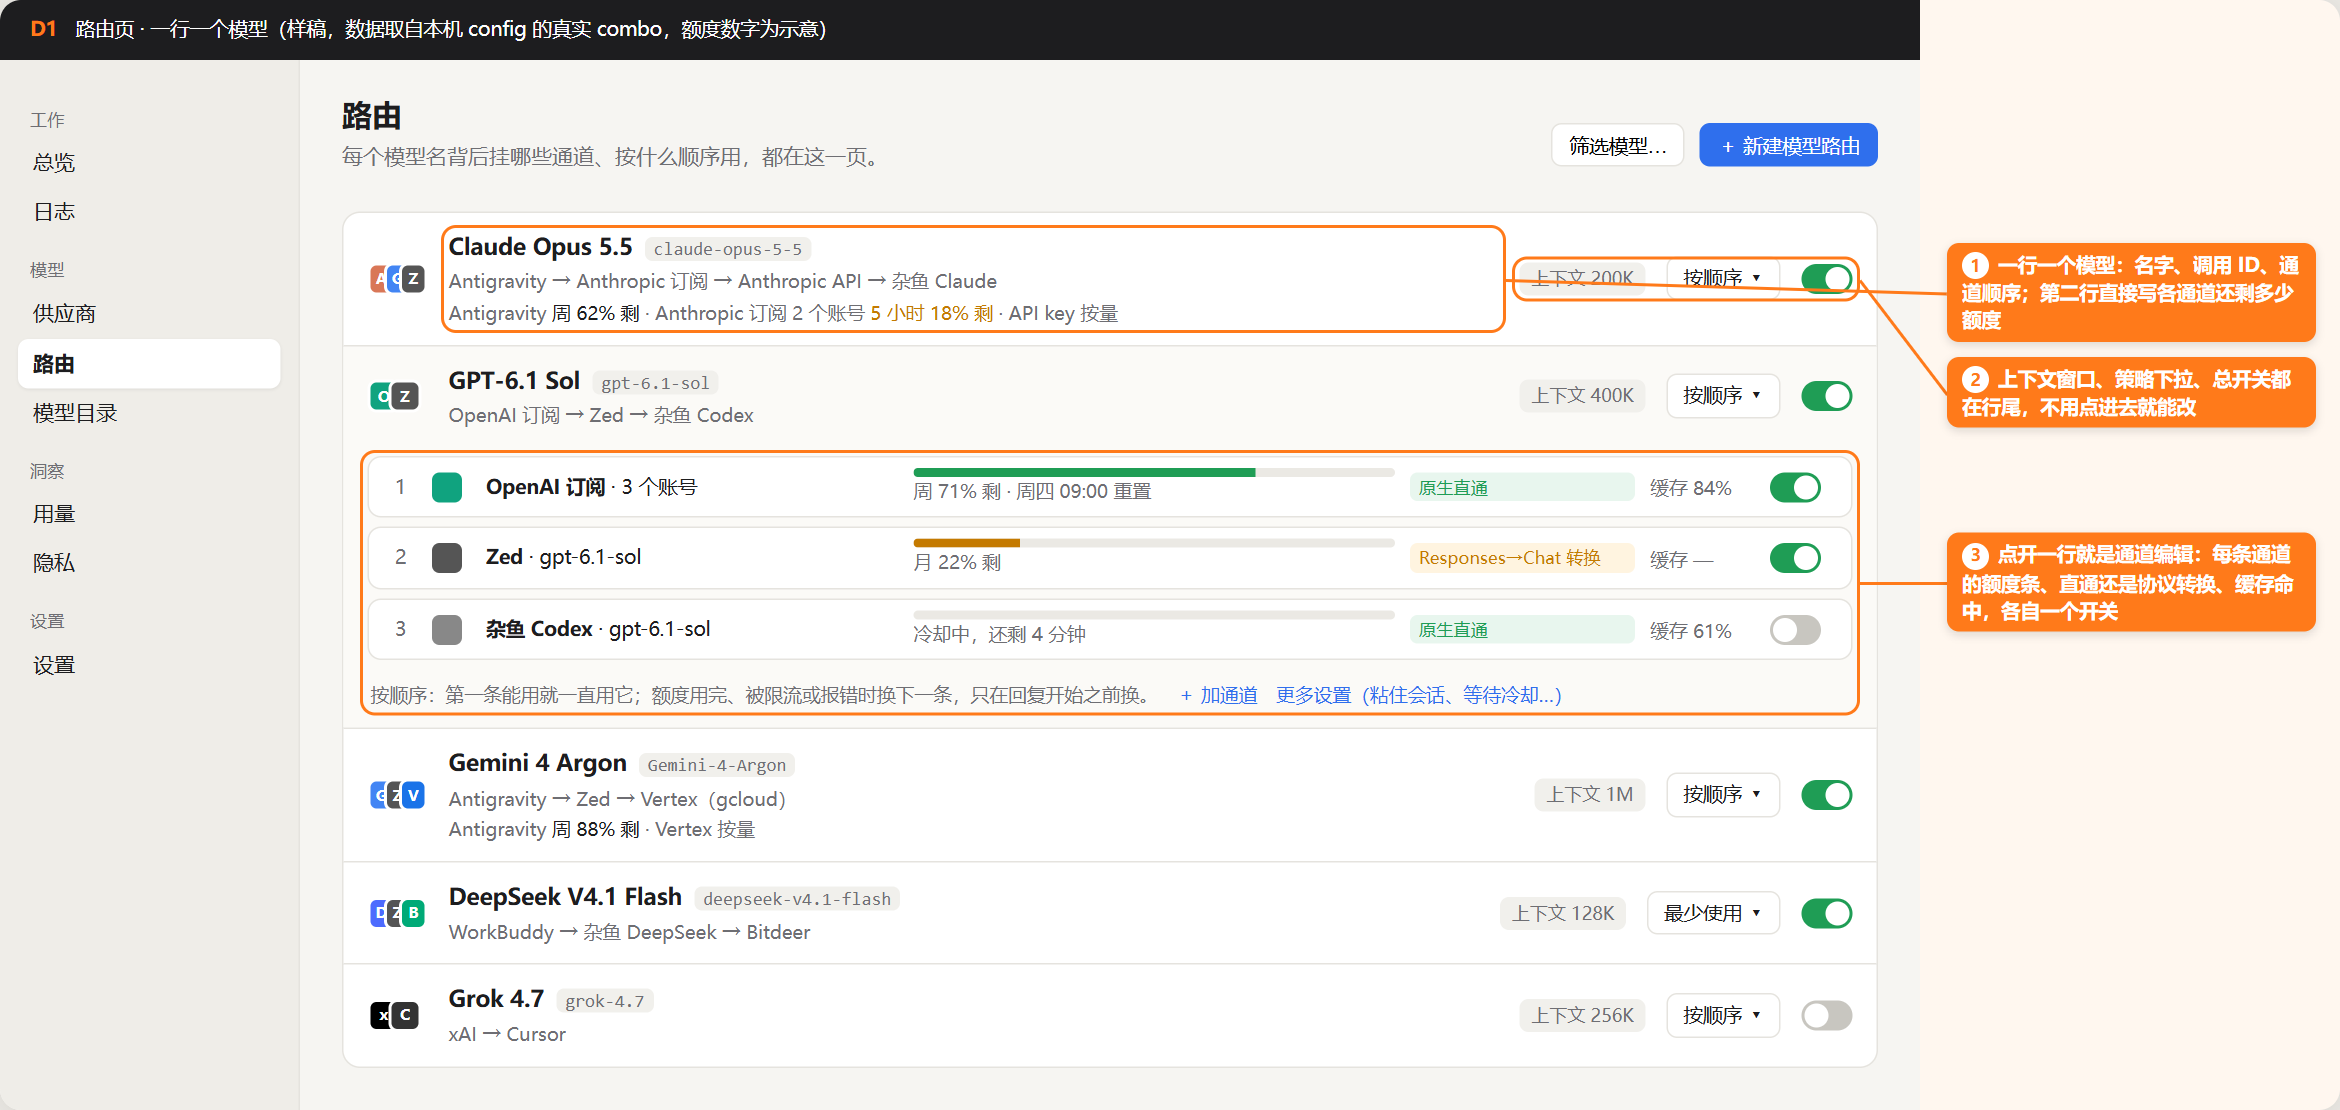
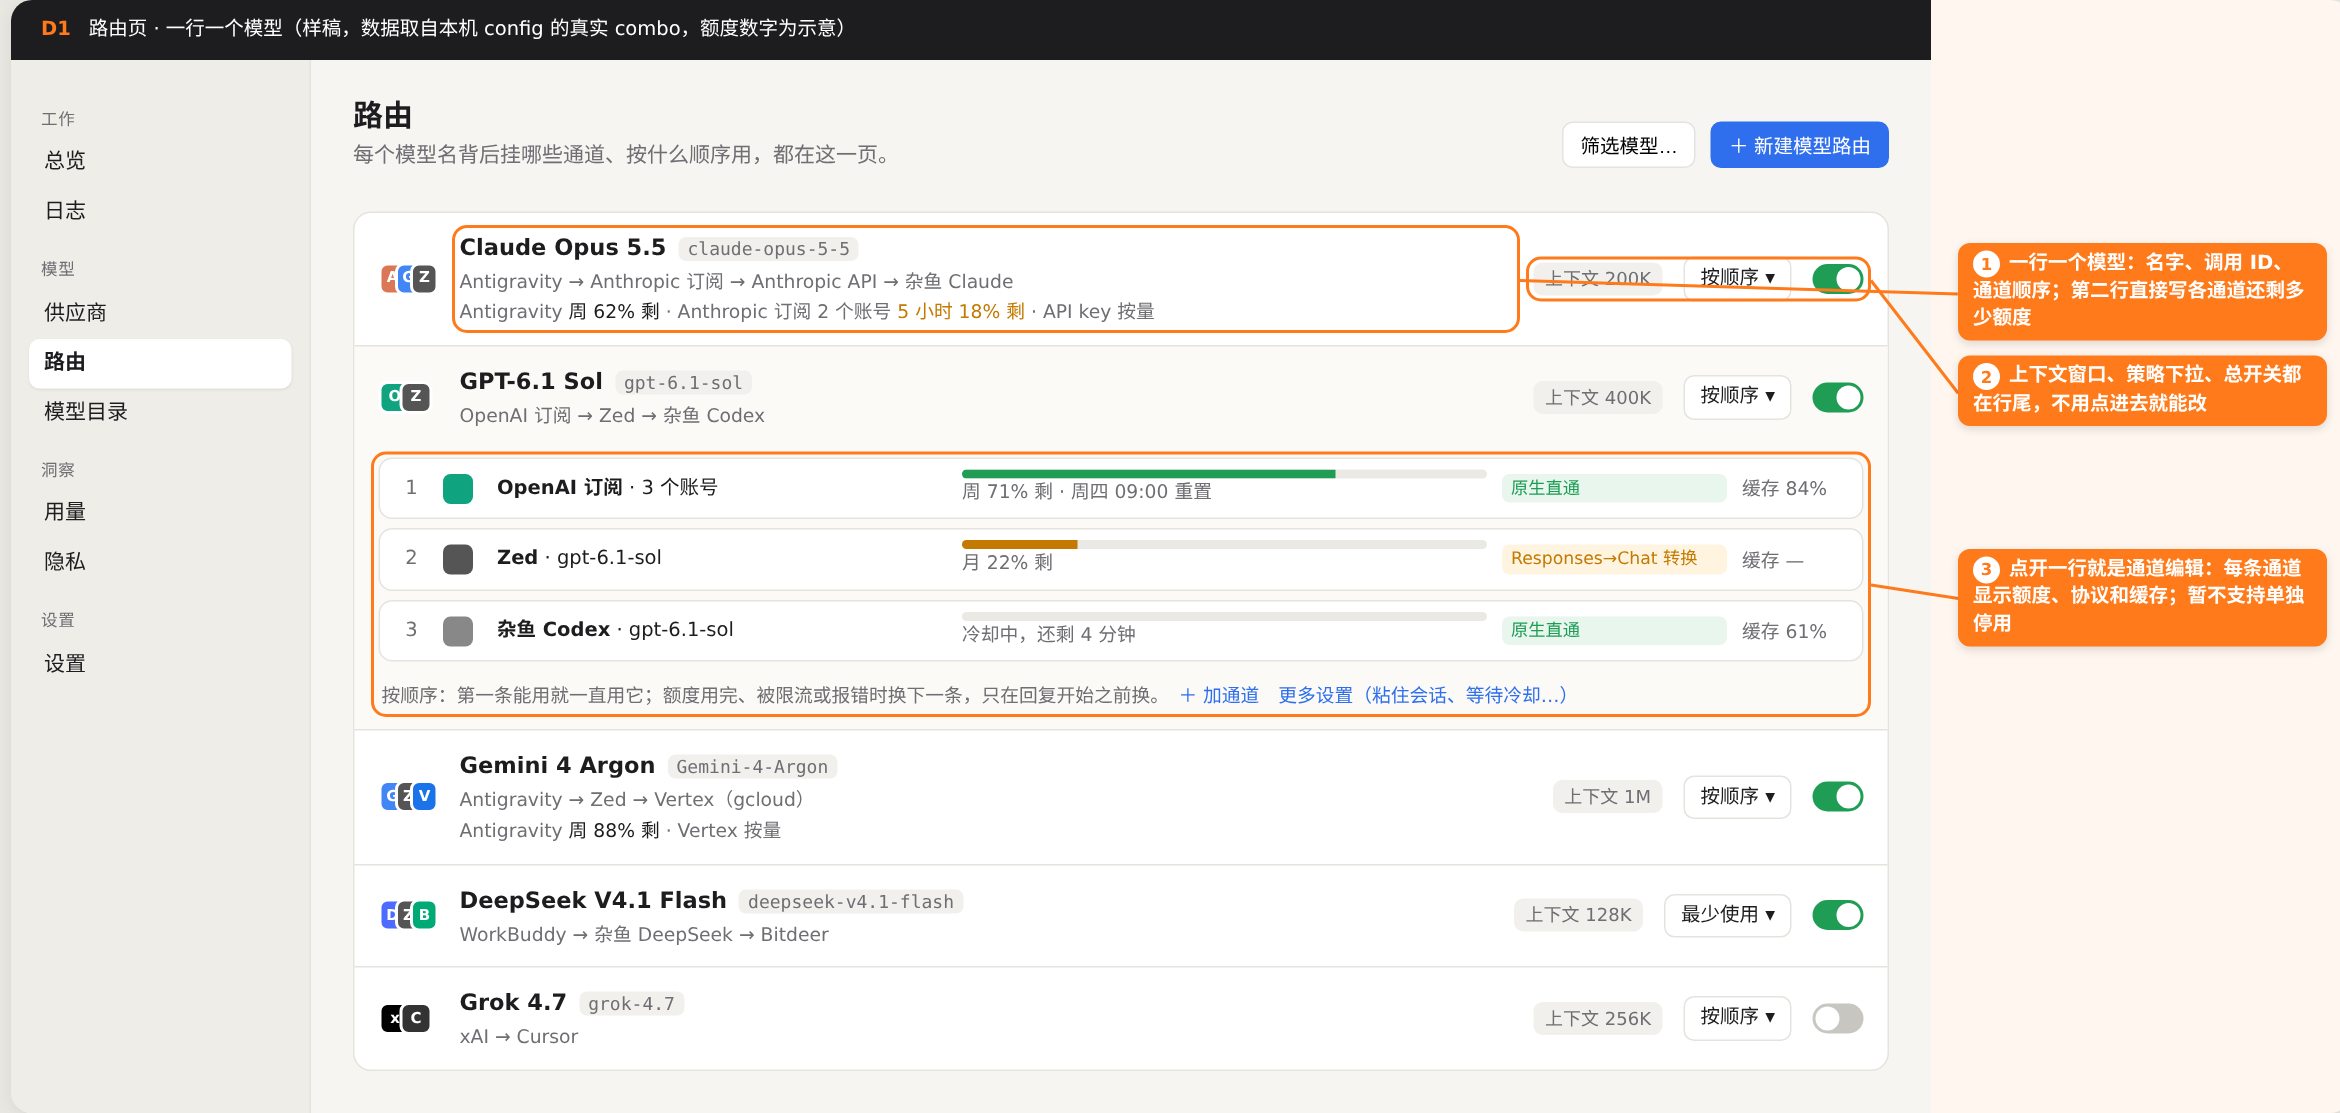
docs(cockpit): align mockups with routing and privacy behavior

diff --git a/devlog/_plan/261104_cockpit/mockups.html b/devlog/_plan/261104_cockpit/mockups.html
@@ -19,7 +19,7 @@ main{padding:22px 28px 28px}h2{margin:0 0 2px;font-size:20px}.lead{color:var(--s
 .sel{border:1px solid var(--line);border-radius:7px;padding:4px 10px;font-size:13px;background:#fff;white-space:nowrap}
 .sw{width:34px;height:20px;border-radius:10px;background:var(--ok);position:relative}.sw:after{content:"";position:absolute;right:2px;top:2px;width:16px;height:16px;border-radius:50%;background:#fff}.sw.off{background:#c8c6c0}.sw.off:after{right:auto;left:2px}
 .open{background:#fbfaf7}.chan{grid-column:1/-1;display:grid;gap:6px;margin-top:4px}
-.ch{display:grid;grid-template-columns:22px 26px 1.2fr 1.4fr 150px 70px 44px;gap:10px;align-items:center;background:#fff;border:1px solid var(--line);border-radius:9px;padding:7px 10px;font-size:13px}
+.ch{display:grid;grid-template-columns:22px 26px 1.2fr 1.4fr 150px 70px;gap:10px;align-items:center;background:#fff;border:1px solid var(--line);border-radius:9px;padding:7px 10px;font-size:13px}
 .n{color:var(--sub);text-align:center}.bar{height:6px;border-radius:3px;background:#ebe9e4;overflow:hidden}.bar i{display:block;height:100%;background:var(--ok)}.bar.w i{background:var(--warn)}.bar.b i{background:var(--bad)}
 .tag{font-size:11.5px;border-radius:5px;padding:1px 6px;background:#eef3ff;color:var(--acc);white-space:nowrap}.tag.g{background:#e8f6ee;color:var(--ok)}.tag.y{background:#fff4e0;color:var(--warn)}.tag.r{background:#fdecec;color:var(--bad)}
 .hint{font-size:12.5px;color:var(--sub);margin:8px 0 0 2px}
@@ -55,10 +55,10 @@ table{width:100%;border-collapse:collapse;font-size:13px}td,th{padding:8px 12px;
   <div class="nm"><b>GPT-6.1 Sol</b><code>gpt-6.1-sol</code>
    <div class="mem">OpenAI 订阅 → Zed → 杂鱼 Codex</div></div>
   <span class="ctx">上下文 400K</span><span class="sel">按顺序 ▾</span><span class="sw"></span>
-  <div data-n="3" data-t="点开一行就是通道编辑：每条通道的额度条、直通还是协议转换、缓存命中，各自一个开关" data-p="b" class="chan">
-   <div class="ch"><span class="n">1</span><i style="width:20px;height:20px;border-radius:5px;background:#10a37f"></i><span><b>OpenAI 订阅</b> · 3 个账号</span><span><div class="bar"><i style="width:71%"></i></div><small class="mem">周 71% 剩 · 周四 09:00 重置</small></span><span class="tag g">原生直通</span><span class="mem">缓存 84%</span><span class="sw"></span></div>
-   <div class="ch"><span class="n">2</span><i style="width:20px;height:20px;border-radius:5px;background:#555"></i><span><b>Zed</b> · gpt-6.1-sol</span><span><div class="bar w"><i style="width:22%"></i></div><small class="mem">月 22% 剩</small></span><span class="tag y">Responses→Chat 转换</span><span class="mem">缓存 —</span><span class="sw"></span></div>
-   <div class="ch"><span class="n">3</span><i style="width:20px;height:20px;border-radius:5px;background:#888"></i><span><b>杂鱼 Codex</b> · gpt-6.1-sol</span><span><div class="bar b"><i style="width:0"></i></div><small class="mem out">冷却中，还剩 4 分钟</small></span><span class="tag g">原生直通</span><span class="mem">缓存 61%</span><span class="sw off"></span></div>
+  <div data-n="3" data-t="点开一行就是通道编辑：每条通道显示额度、协议和缓存；暂不支持单独停用" data-p="b" class="chan">
+   <div class="ch"><span class="n">1</span><i style="width:20px;height:20px;border-radius:5px;background:#10a37f"></i><span><b>OpenAI 订阅</b> · 3 个账号</span><span><div class="bar"><i style="width:71%"></i></div><small class="mem">周 71% 剩 · 周四 09:00 重置</small></span><span class="tag g">原生直通</span><span class="mem">缓存 84%</span></div>
+   <div class="ch"><span class="n">2</span><i style="width:20px;height:20px;border-radius:5px;background:#555"></i><span><b>Zed</b> · gpt-6.1-sol</span><span><div class="bar w"><i style="width:22%"></i></div><small class="mem">月 22% 剩</small></span><span class="tag y">Responses→Chat 转换</span><span class="mem">缓存 —</span></div>
+   <div class="ch"><span class="n">3</span><i style="width:20px;height:20px;border-radius:5px;background:#888"></i><span><b>杂鱼 Codex</b> · gpt-6.1-sol</span><span><div class="bar b"><i style="width:0"></i></div><small class="mem out">冷却中，还剩 4 分钟</small></span><span class="tag g">原生直通</span><span class="mem">缓存 61%</span></div>
    <div class="hint">按顺序：第一条能用就一直用它；额度用完、被限流或报错时换下一条，只在回复开始之前换。　<a style="color:var(--acc)">＋ 加通道</a>　<a style="color:var(--acc)">更多设置（粘住会话、等待冷却…）</a></div>
   </div></div>
  <div class="row"><div class="ics"><i style="background:#4285f4">G</i><i style="background:#555">Z</i><i style="background:#1a73e8">V</i></div>
@@ -131,17 +131,18 @@ table{width:100%;border-collapse:collapse;font-size:13px}td,th{padding:8px 12px;
  <div class="kpi"><div class="k">不同的值</div><div class="v">37 个</div><div class="s">同一个值每次换成同一个占位符</div></div>
  <div class="kpi"><div class="k">去向最多</div><div class="v" style="font-size:16px">Codex → OpenAI 订阅</div><div class="s">812 处</div></div>
 </div>
-<div data-n="2" data-t="每类规则配一个「之前 → 之后」的例子，不用猜" data-p="r" class="set"><div class="sh">替换什么</div>
- <div class="pref"><div><div class="nm2">API 密钥和令牌</div><div class="sub">sk-…、ghp_…、Bearer 令牌。例：<span class="ph">sk-proj-a1…</span> → <span class="ph">{{SECRET_1}}</span></div></div><span class="sw"></span></div>
- <div class="pref"><div><div class="nm2">邮箱和手机号</div><div class="sub">例：andrew@… → <span class="ph">{{EMAIL_1}}</span></div></div><span class="sw"></span></div>
+<div data-n="2" data-t="分类只读说明：邮箱遮挡要开启；手机号始终不脱敏" data-p="r" class="set"><div class="sh">替换什么</div>
+ <div class="pref"><div><div class="nm2">API 密钥和令牌</div><div class="sub">总开关打开后，替换命中规则且未放行的密钥和令牌。例：Bearer exampleToken12345 → Bearer <span class="ph">{{SECRET_6d303708}}</span></div></div></div>
+ <div class="pref"><div><div class="nm2">邮箱地址</div><div class="sub">打开「邮箱遮挡」才替换。例：demo@example.com → <span class="ph">{{SECRET_74621089}}</span>；关闭时保留原文。</div></div></div>
+ <div class="pref"><div><div class="nm2">手机号</div><div class="sub">不脱敏；无论邮箱遮挡是否打开，手机号都按原样发出。</div></div></div>
  <div class="pref"><div><div class="nm2">放行名单</div><div class="sub">这些值照原样发出，比如公开的仓库地址。3 条</div></div><button class="btn">编辑</button></div>
 </div>
-<div class="list"><table>
+<div class="list"><div class="pref"><b>按请求查看</b><span class="mem">按值查看 · 暂不支持</span></div><table>
 <tr><th>时间</th><th>客户端 → 供应商</th><th>模型</th><th>替换了什么</th></tr>
 <tr><td>14:02</td><td>Claude Code → Antigravity</td><td>claude-opus-5-5</td><td><span class="tag">密钥 ×2</span> <span class="tag">邮箱 ×1</span></td></tr>
 <tr><td>13:58</td><td>Codex → OpenAI 订阅</td><td>gpt-6.1-sol</td><td><span class="tag">密钥 ×5</span></td></tr>
 </table></div>
-<div class="story"><b>试一下</b> <span class="mem">粘一段文字，看发出去会变成什么（不发给任何人）</span><div style="display:grid;grid-template-columns:1fr 1fr;gap:10px;margin-top:8px"><div class="ch" style="display:block">token=ghp_x9Lk… 发给 a@b.com</div><div class="ch" style="display:block">token=<span class="ph">{{SECRET_1}}</span> 发给 <span class="ph">{{EMAIL_1}}</span></div></div></div>
+<div class="story"><b>试一下</b> <span class="mem">本机预览，不发给模型。下例已打开邮箱遮挡，手机号不变。</span><div style="display:grid;grid-template-columns:1fr 1fr;gap:10px;margin-top:8px"><div class="ch" style="display:block">demo@example.com · +1 202-555-0142</div><div class="ch" style="display:block"><span class="ph">{{SECRET_74621089}}</span> · +1 202-555-0142</div></div><div class="hint">关闭邮箱遮挡时，邮箱和手机号都保留原文。</div></div>
 </main>
 </section>
 <script>const g=document.getElementById('g');const seq=[['#7c8cf5',12],['#56b4e9',10],['#f0a35e',4],['#6cc287',6]];for(const[c,n]of seq)for(let i=0;i<n;i++){const e=document.createElement('i');e.style.background=c;g.append(e)}for(let i=32;i<400;i++)g.append(document.createElement('i'));</script>
